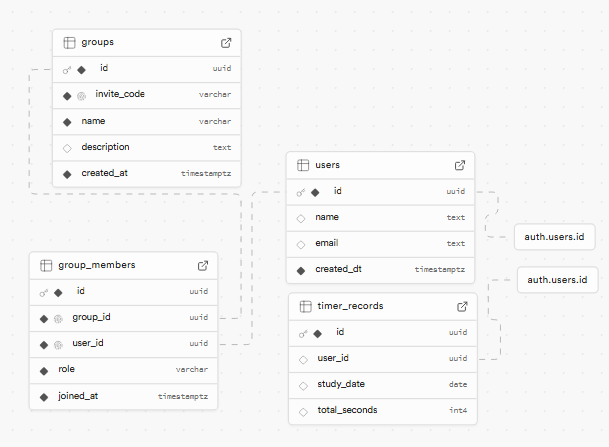
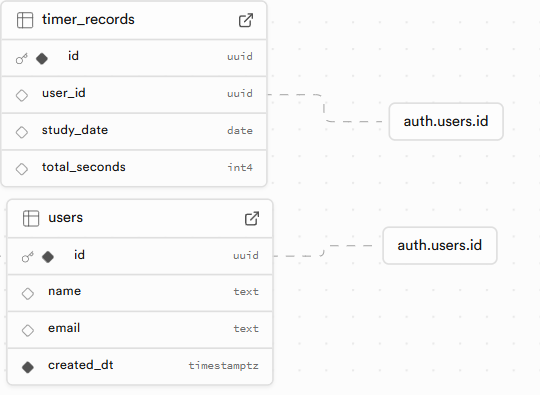
Add DeleteAccount && Delete Group UI

diff --git a/src/components/Sidebar.tsx b/src/components/Sidebar.tsx
@@ -1,7 +1,7 @@
 'use client';
 
 import { logOut } from "@/utils/auth";
-import { ChartBarIcon, UserGroupIcon } from "@heroicons/react/24/outline";
+import { ChartBarIcon } from "@heroicons/react/24/outline";
 import Link from "next/link";
 import { useContext, useEffect, useState } from "react";
 import StatsModal from "./modal/StatsModal";
@@ -9,6 +9,9 @@ import { UserContext } from "@/contexts/UserContext";
 import { TimeContext } from "@/contexts/TimeContext";
 import NewGroupModal from "./modal/NewGroupModal";
 import ManageGroupModal from "./modal/ManageGroupModal";
+import { DeleteAccount } from "./DeleteButton";
+//import { getGroup } from "@/utils/group";
+//import { MyGroup } from "@/types/group";
 
 export default function Sidebar () {
     const { user, setUser } = useContext(UserContext);
@@ -18,15 +21,22 @@ export default function Sidebar () {
     const [showNewGroup, setShowNewGroup] = useState(false);
     const [showManageGroup, setShowManageGroup] = useState(false);
 
-    const [hasGroup, setHasGroup] = useState(false);
-    
-    
+    //const [hasGroup, setHasGroup] = useState<MyGroup | null>(null);
+
+    // useEffect(() => {
+    //   if(user) {
+    //     getGroup(user.id)
+    //     .then(data => {
+    //       if(data) {
+    //         setHasGroup(data);
+    //       }
+    //     })
+    //   }
+    // },[user]);
 
     useEffect(() => {
       if(user) {
         updateTodayTime();
-        // hasGroup 가져오기
-        setHasGroup(false);
       }
     }, [updateTodayTime, user])
 
@@ -39,13 +49,13 @@ export default function Sidebar () {
       }
     }
 
-    const handleGroupAction = () => {
+    /*const handleGroupAction = () => {
       if(hasGroup) {
         setShowManageGroup(true);
       } else {
         setShowNewGroup(true);
       }
-    }
+    } */
 
     return (
       <div className="flex min-h-screen bg-gray-50">
@@ -124,19 +134,17 @@ export default function Sidebar () {
             <div className="text-2xl font-bold text-sky-700"> 로그인 시 기록 </div>
           )}
         </div>
-        {/* 그룹 현황 */}
-        {user && (<div>
+        {user && <DeleteAccount/>}
+        {/* {user && (<div>
           <div className="p-4">
               <h2 className="text-sm font-medium text-gray-500 mb-3">그룹 현황</h2>
               
               <div className="space-y-3">
-                {/* 그룹 멤버 목록 */}
                 <div className="flex items-center justify-between">
                   <div className="flex items-center space-x-2">
                     <div className="w-2 h-2 rounded-full bg-green-500"></div>
                     <span>사용자</span>
                   </div>
-                  <span className="text-sm text-gray-500">시간표시</span>
                 </div>
               </div>
             </div><div className="absolute bottom-0 w-64 p-4 border-t border-gray-200">
@@ -148,7 +156,7 @@ export default function Sidebar () {
                   {hasGroup ? "그룹 관리" : "그룹 참여하기"}
                 </button>
               </div>
-          </div>)}
+          </div>)} */}
         </aside>
     </div>
     );

diff --git a/src/components/DeleteButton.tsx b/src/components/DeleteButton.tsx
@@ -1,0 +1,73 @@
+import { UserContext } from "@/contexts/UserContext";
+import { deleteUser } from "@/utils/auth";
+import { useContext, useState } from "react";
+
+export function DeleteAccount() {
+    const {user, setUser} = useContext(UserContext);
+    const [isOpen, setIsOpen] = useState(false);
+    const [confirmText, setConfirmText] = useState('');
+  
+    const handleDelete = async () => {
+        if(!user) return null;
+        deleteUser(user.id)
+            .then(success => {
+                if(success) {
+                    alert('탈퇴 성공');
+                    setIsOpen(false);
+                    setUser(null);
+                } else {
+                    alert('탈퇴 실패');
+                    setIsOpen(true);
+                }
+            });
+      };
+
+    return (
+    <div className="p-4 mt-auto border-t border-gray-200">
+        <button 
+            onClick={() => setIsOpen(true)}
+            className="w-full py-2 px-4 text-sm text-red-600 hover:text-red-700 hover:bg-red-50 rounded-lg transition-colors text-center"
+        >
+        계정 삭제
+        </button>
+
+        {/* Modal */}
+        {isOpen && (
+        <div className="fixed inset-0 bg-black bg-opacity-50 flex items-center justify-center p-4 z-50">
+            <div className="bg-white rounded-lg p-6 max-w-sm w-full space-y-4">
+            <h3 className="text-lg font-medium">계정을 삭제하시겠습니까?</h3>
+            <p className="text-sm text-gray-500">
+                모든 데이터가 영구적으로 삭제되며 복구할 수 없습니다.
+            </p>
+            
+            <div className="space-y-2">
+                <input
+                type="text"
+                placeholder="'DELETE' 입력"
+                value={confirmText}
+                onChange={(e) => setConfirmText(e.target.value)}
+                className="w-full px-3 py-2 border border-gray-300 rounded-lg focus:outline-none focus:ring-2 focus:ring-red-500 focus:border-transparent"
+                />
+                
+                <div className="flex space-x-3">
+                <button
+                    onClick={() => setIsOpen(false)}
+                    className="flex-1 px-4 py-2 text-sm text-gray-600 bg-gray-100 hover:bg-gray-200 rounded-lg transition-colors"
+                >
+                    취소
+                </button>
+                <button
+                    disabled={confirmText !== 'DELETE'}
+                    onClick={handleDelete}
+                    className="flex-1 px-4 py-2 text-sm text-white bg-red-600 hover:bg-red-700 rounded-lg transition-colors disabled:opacity-50 disabled:cursor-not-allowed"
+                >
+                    삭제
+                </button>
+                </div>
+            </div>
+            </div>
+        </div>
+        )}
+    </div>
+    );
+};

diff --git a/src/utils/group.ts b/src/utils/group.ts
@@ -1,10 +1,10 @@
-import { Group } from "@/types/group";
+import { Group, GroupMembers, Member, MyGroup } from "@/types/group";
 import { createClient } from "./supabase/client";
 
 export const createNewGroup = async (user_id: string, group: Group) => {
     const supabase = createClient();
     let isUnique = false;
-    let invite_code
+    let invite_code;
 
     while (!isUnique) {
         invite_code = await generateInviteCode();
@@ -49,4 +49,52 @@ const generateInviteCode = () =>  {
       { length: 8 }, // 8개의 요소를 가진 빈 배열 생성
       () => chars.charAt(Math.floor(Math.random() * chars.length)) // 각 요소를 랜덤 문자로 채움
     ).join('');
+}
+
+export const getGroup = async (user_id: string) => {
+    const supabase = createClient();
+
+    const {data, error} = await supabase.from('groups')
+        .select(`
+            *,
+            group_members!inner (
+                id,
+                user_id,
+                role,
+                joined_at,
+                users(
+                    name
+                )
+            )
+        `)
+        .eq('group_members.user_id', user_id);
+
+    if(error) {
+        console.error(error);
+        return null;
+    }
+
+    if (data && data[0]) {
+        const members = Array.isArray(data[0].group_members) 
+        ? data[0].group_members 
+        : [data[0].group_members];
+       
+        const myGroup: MyGroup = {
+          gid: data[0].id,
+          invite_code: data[0].invite_code,
+          create_at: data[0].created_at,
+          members: members.map((member: Member) => ({
+            id: member.id,
+            group_id: data[0].id,
+            user_id: member.user_id,
+            user_name: member.users.name,
+            role: member.role,
+            joined_at: member.joined_at
+          })) as GroupMembers[]
+        };
+      
+        return myGroup;
+      }
+
+    return null;
 }

diff --git a/src/utils/auth.ts b/src/utils/auth.ts
@@ -1,5 +1,6 @@
 'use server'
 import { createClient } from "./supabase/server";
+import { createClient as adminClient } from "@supabase/supabase-js";
 
 export const getUser = async () => {
     const supabase = await createClient();
@@ -21,3 +22,23 @@ export const logOut = async () => {
     return error;
 }
 
+export const deleteUser = async (user_id: string) => {
+    const supabase = adminClient(
+        process.env.NEXT_PUBLIC_SUPABASE_URL!,
+        process.env.SUPABASE_SERVICE_ROLE_KEY!, {
+            auth: {
+                autoRefreshToken: false,
+                persistSession: false
+            }
+        });
+
+    const { data, error }  = await supabase.auth.admin.deleteUser(user_id);
+
+    if(error) {
+        console.log(data);
+        console.error(error);
+        return false;
+    } else {
+        return true;
+    }
+}

diff --git a/src/types/group.ts b/src/types/group.ts
@@ -4,3 +4,29 @@ export interface Group {
     name: string;
     description: string;
 }
+
+export interface Member {
+    id: string;
+    user_id: string;
+    role: string;
+    joined_at: string;
+    users: {
+      name: string;
+    }
+}
+
+export interface GroupMembers {
+    id: string;
+    group_id: string;
+    user_id: string;
+    user_name: string;
+    role: string;
+    joined_at: string;
+}
+
+export interface MyGroup{
+    gid: string;
+    invite_code: string;
+    create_at: string;
+    members: GroupMembers[]
+}

diff --git a/README.md b/README.md
@@ -12,6 +12,7 @@
 - 사용자 관리
     - 로그인/회원가입
     - 개인별 학습 통계
+    - 회원 탈퇴
 - 통계 기능
     - 로그인 한 사용자의 누적된 타이머를 주,월,연간 별로 통계
 
@@ -31,8 +32,6 @@
 ### 2.3 Database Schema 
 - users
 - timer_records
-- groups
-- group_members
 
 #### Table Structure
 ![Timer Table Structure](./image/schema.png)
